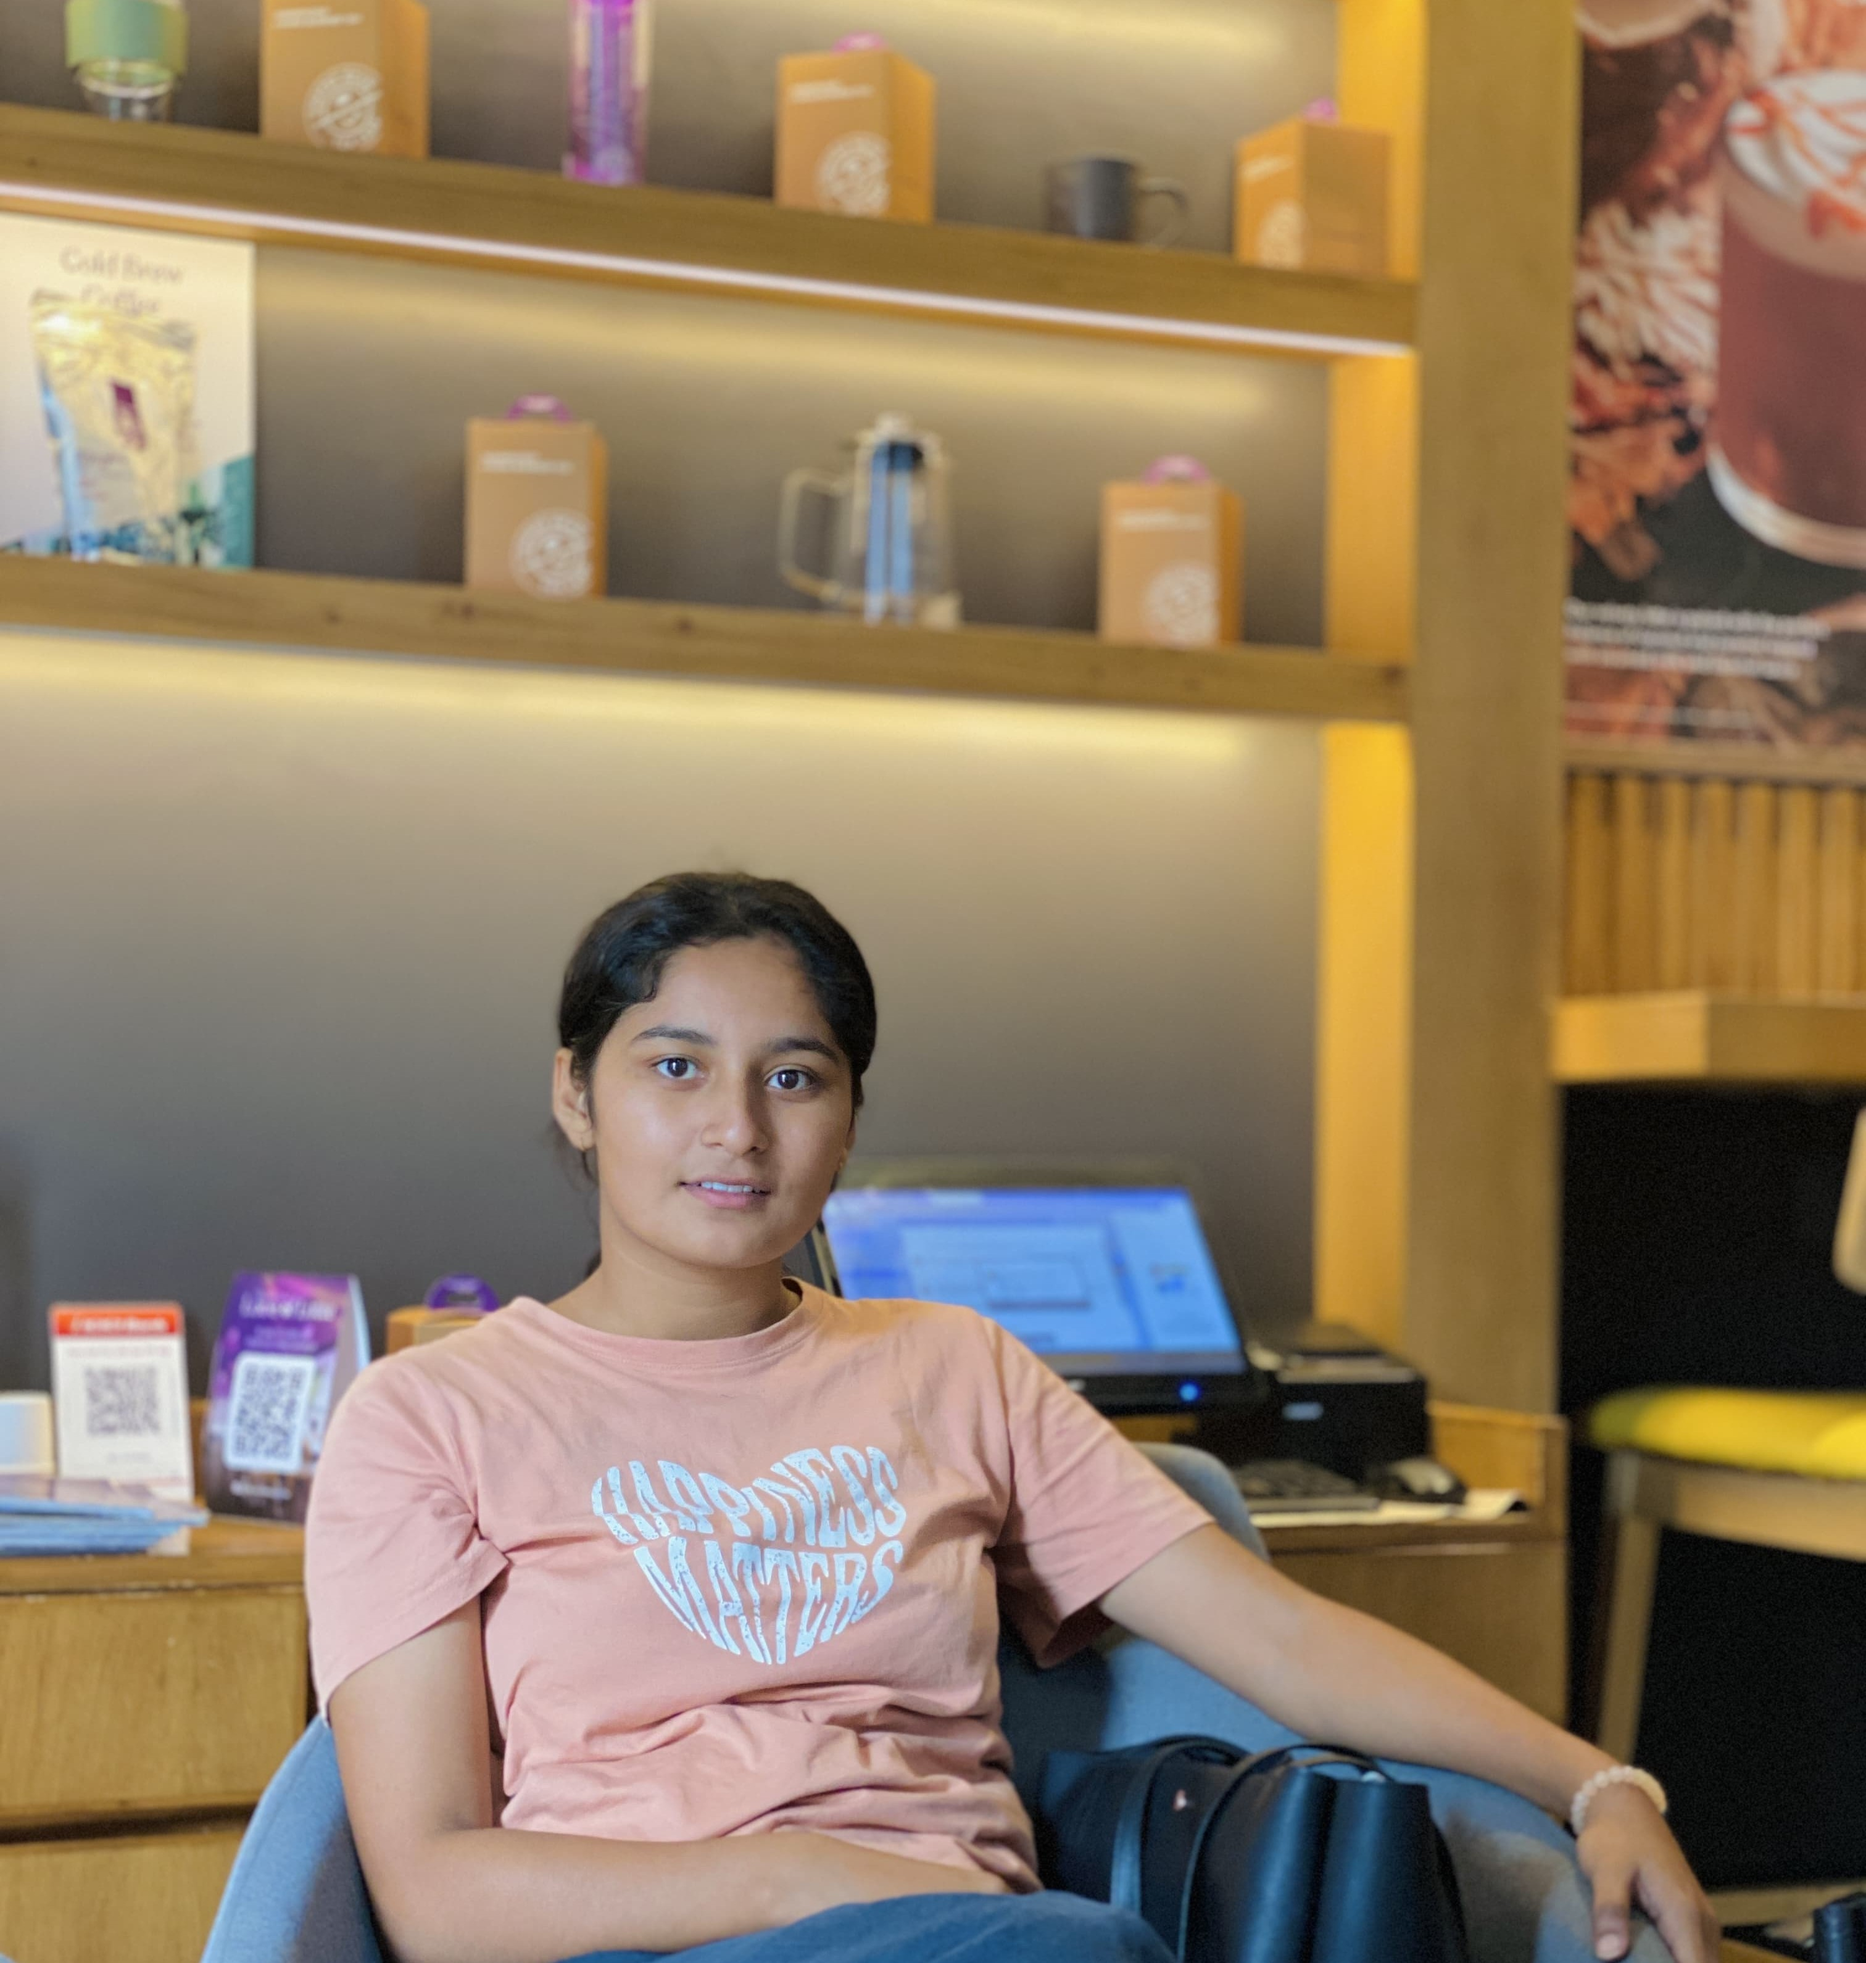
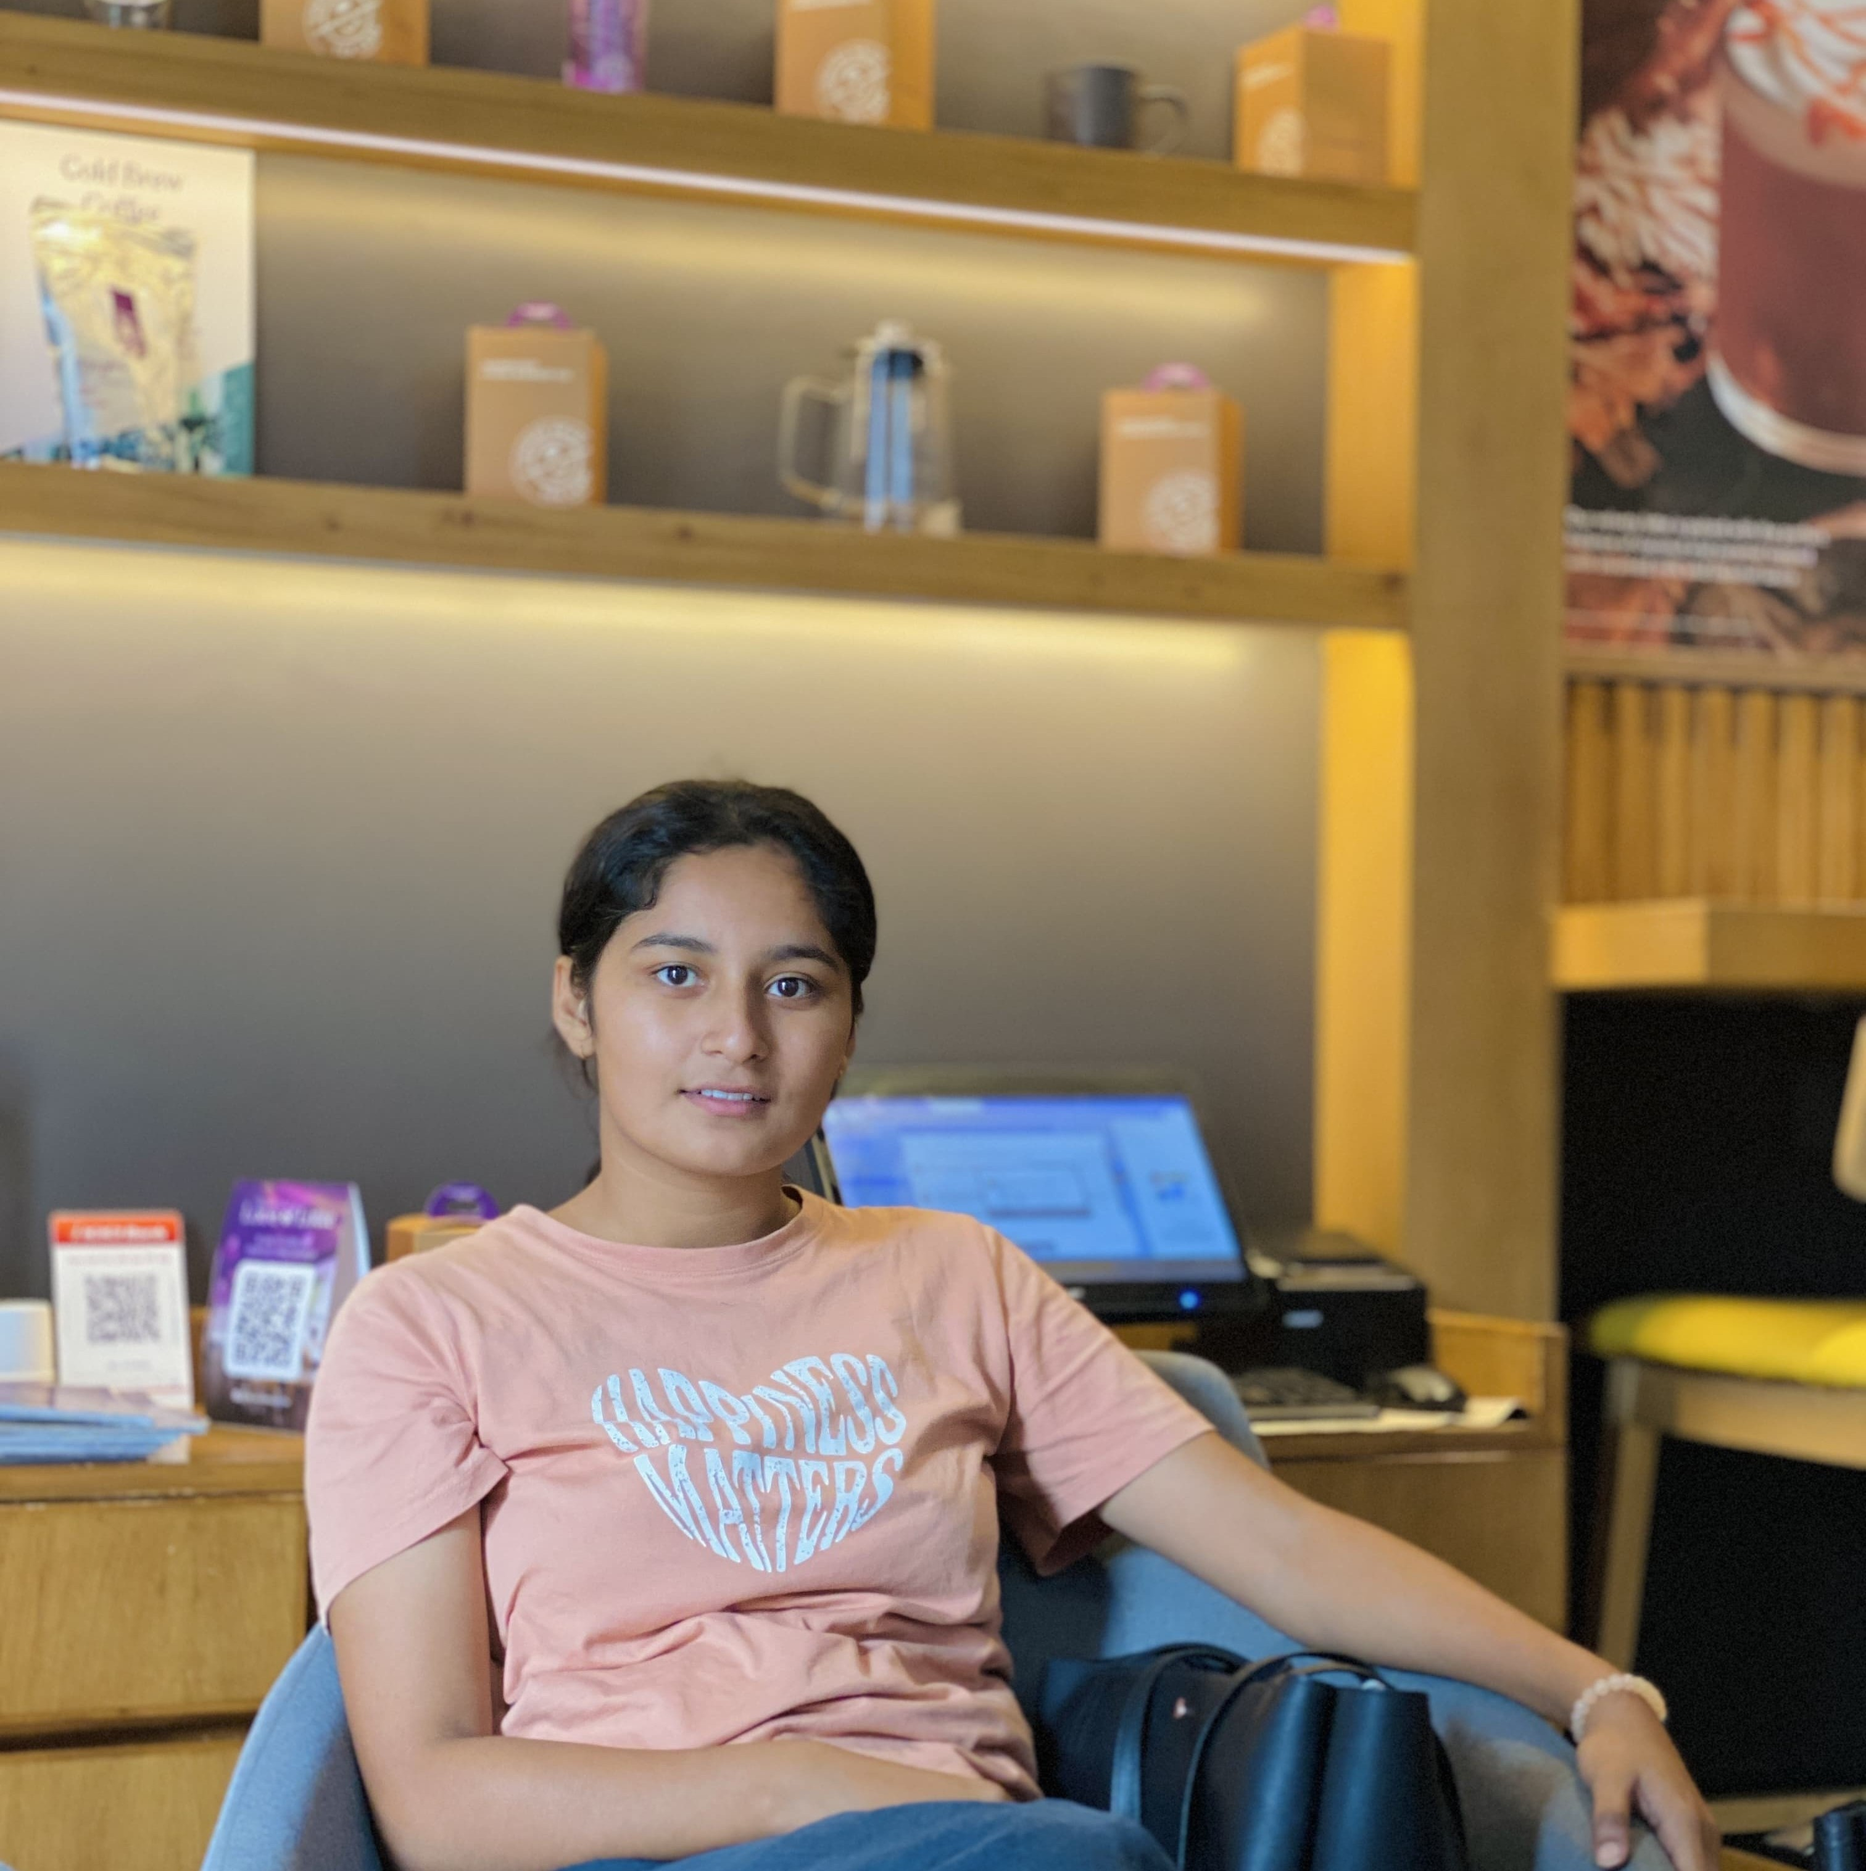
Card Edits

diff --git a/public/index.html b/public/index.html
@@ -386,7 +386,7 @@ function scrollToTop() {
     <div class="card mb-3 k col-md-3">
       <div class="row g-0">
 	  <div class="col-md-12">
-          <img src="Images/My-Pic.jpg" class="card-img-top" alt="...">
+          <img src="Images/Deepinder Pic.jpg" class="card-img-top" alt="...">
           <div class="card-body">
             <h5 class="card-title">Developer</h5>
             <p class="card-text">Parul Singh</p>
